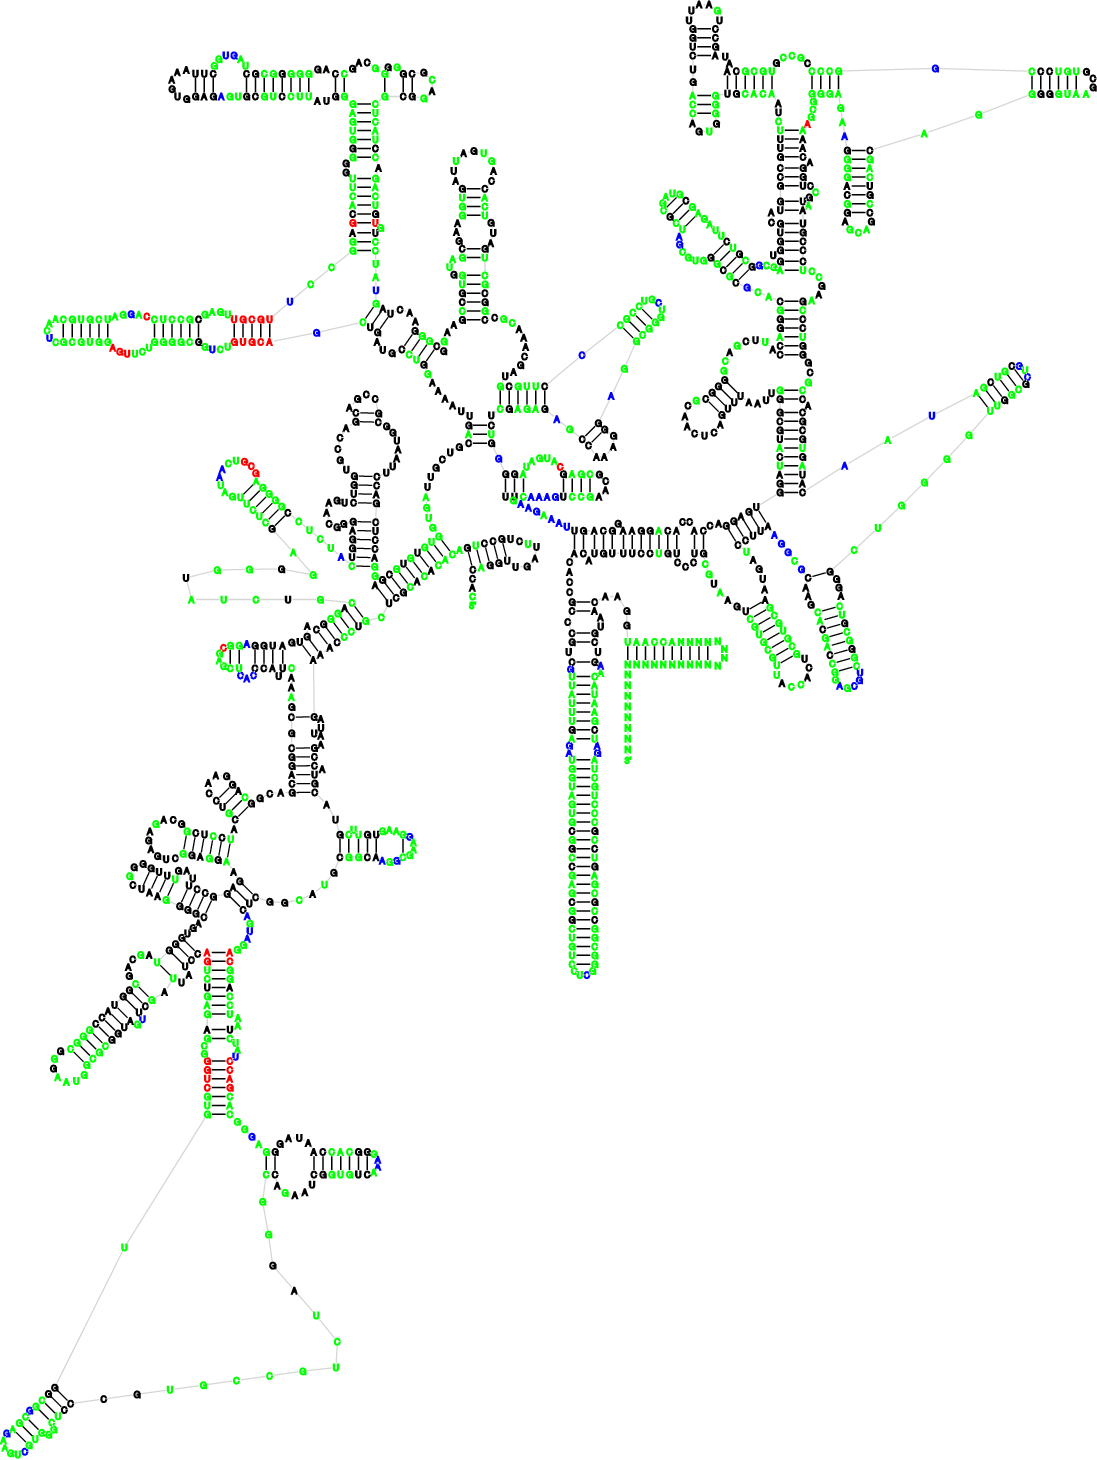
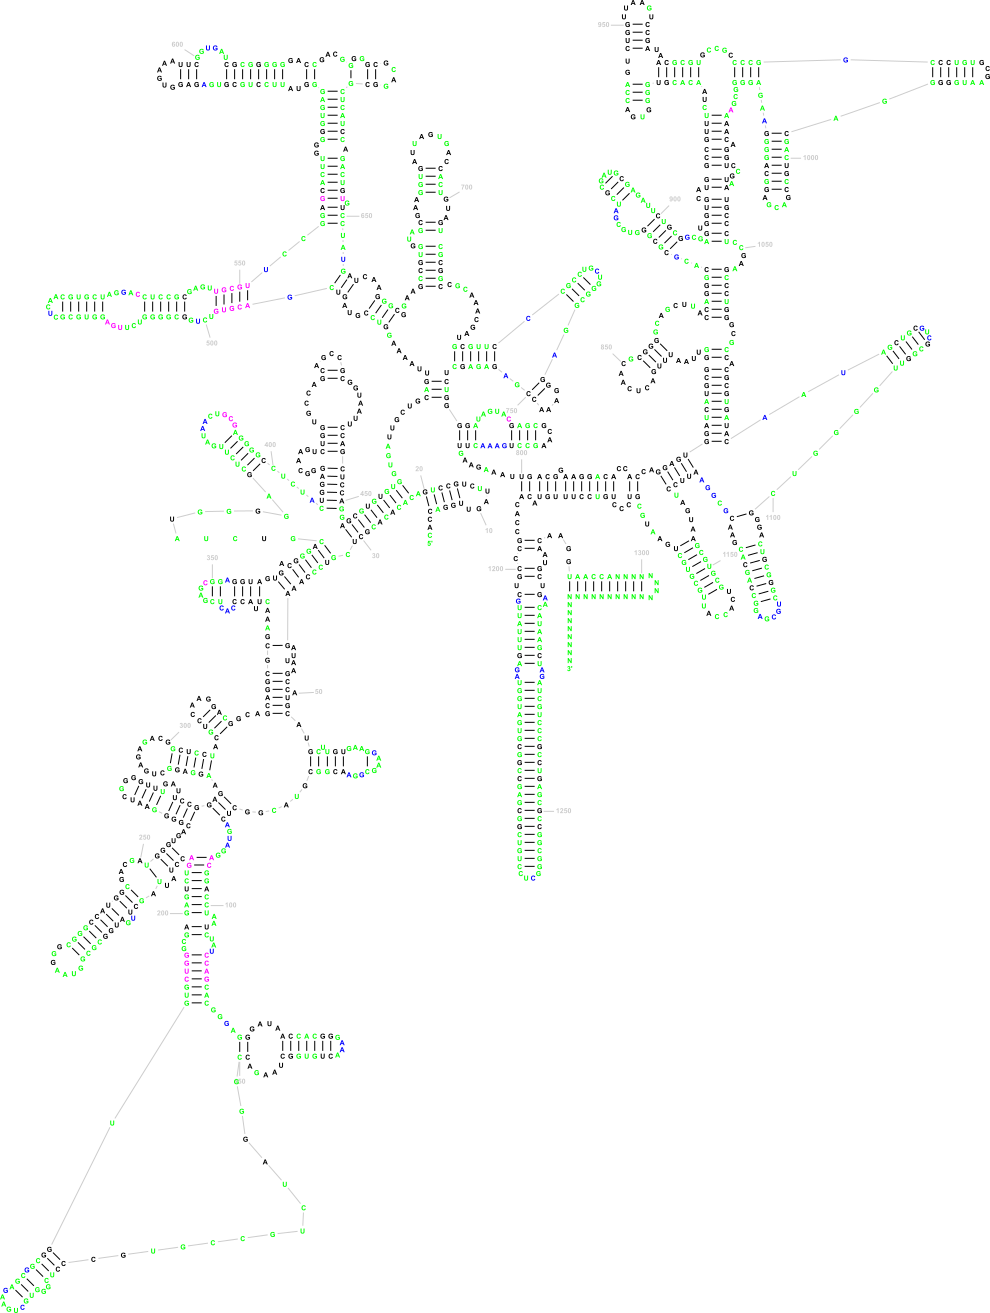
red replaced with magenta

diff --git a/src/utils/document_writer.cpp b/src/utils/document_writer.cpp
@@ -35,7 +35,7 @@ using namespace std;
 #define COLOR_DEFAULT       RGB::BLACK
 
 // initialize RGB constants:
-const RGB RGB::RED = RGB(1., 0., 0., "red");
+const RGB RGB::RED = RGB(1., 0., 1., "red"); //changed to magenta
 const RGB RGB::GREEN = RGB(0., 1., 0., "green");
 const RGB RGB::BLUE = RGB(0., 0., 1., "blue");
 const RGB RGB::BLACK = RGB(0., 0., 0., "black");

diff --git a/README.md b/README.md
@@ -84,7 +84,7 @@ The `traveler` executable is available in the PATH, and the current directory is
 
 	COLOR CODING:
 		Traveler uses the following color coding of nucleotides:
-		* Red - inserted bases
+		* Magenta - inserted bases
 		* Green - edited bases - e.g. the template has an adenosine at a position while the target has a cytosine at the same position and therefore cytosine will be colored green in the resulting layout)
 		* Blue - reinserted bases - happens when traveler needs to redraw simple structures like hairpins (for example due to the change in the number of bases)
 		* Brown - rotated parts - similar situation to reinserted bases, but takes place when redrawing a multibranch loop (in that case all branches need to be rotated to lie on a circle)
